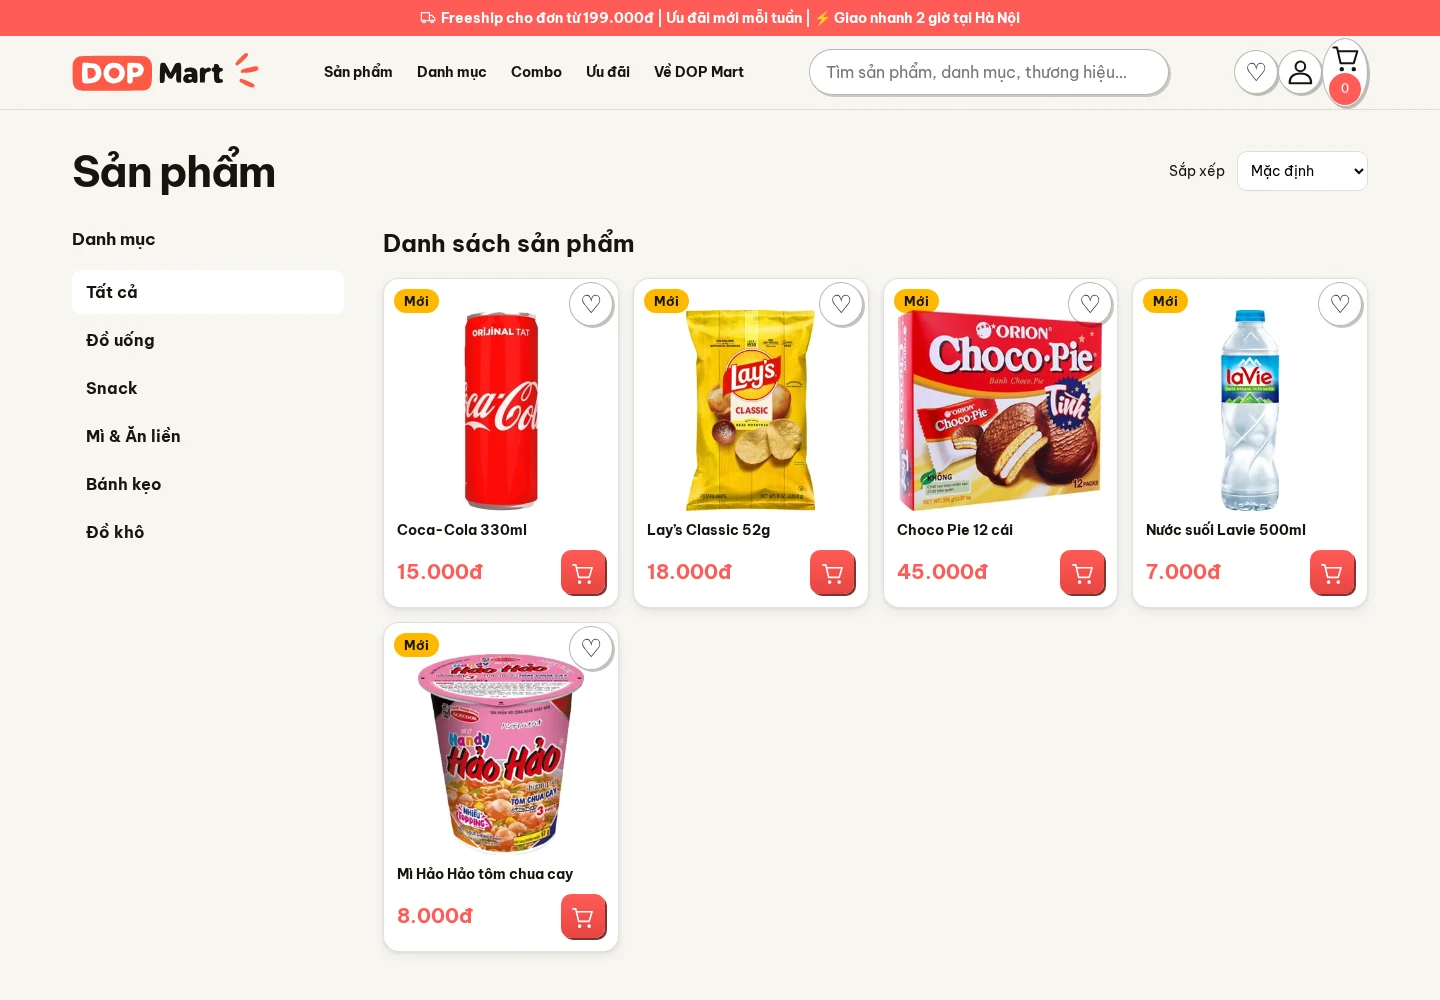
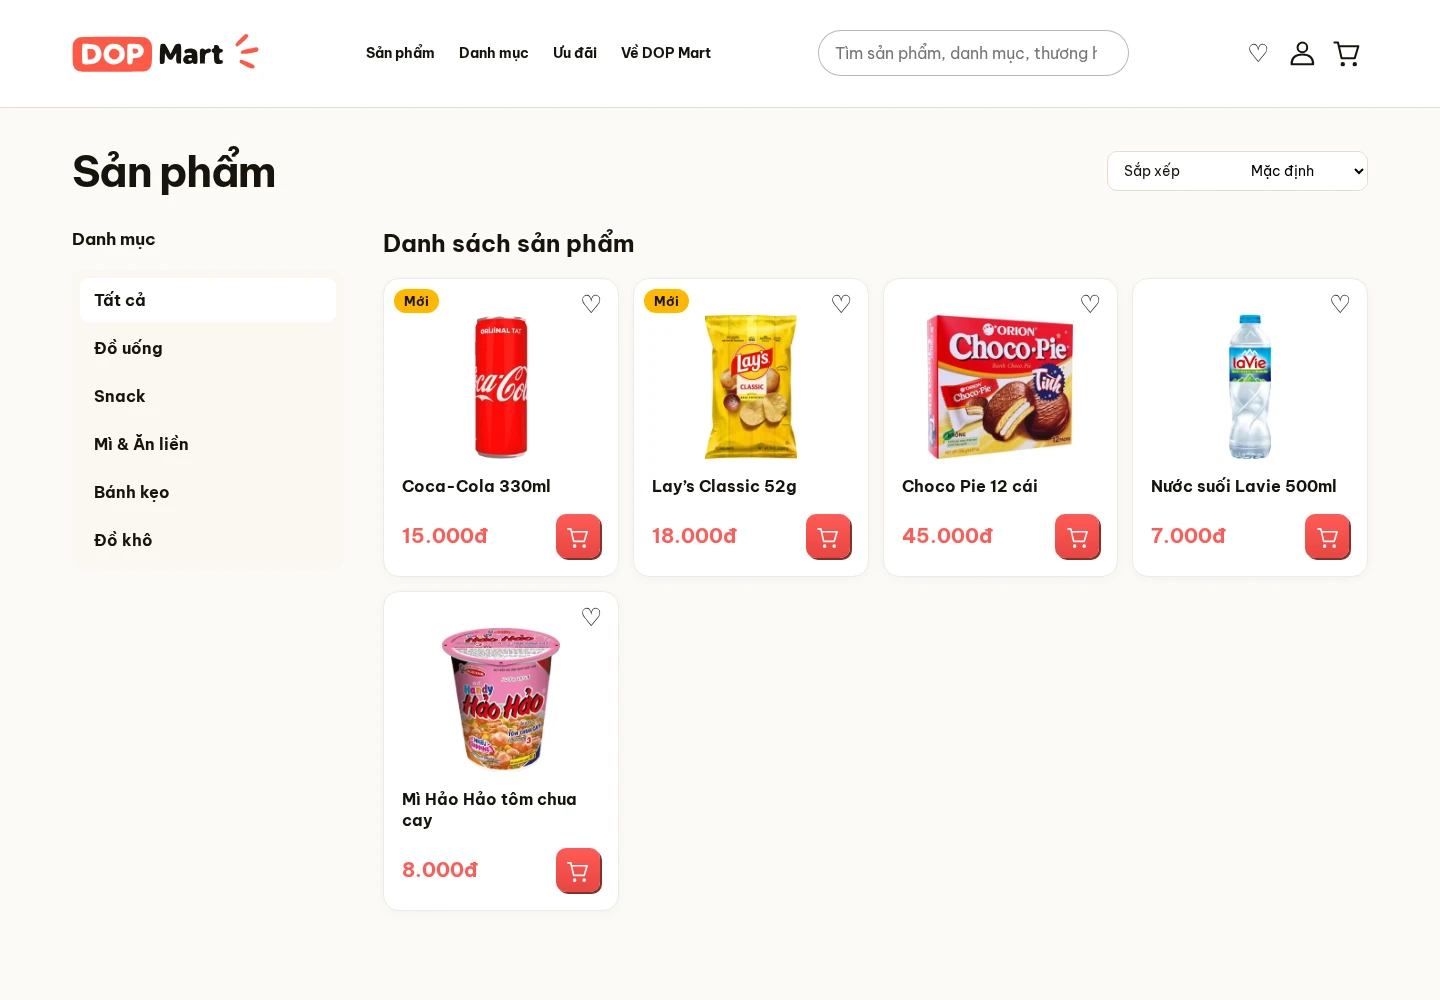
Match listing header, product scale and card styling to approved catalog reference

diff --git a/storefront-ui/homepage/products.html b/storefront-ui/homepage/products.html
@@ -13,22 +13,6 @@
   </head>
 
   <body>
-    <div class="announcement">
-      <svg
-        aria-hidden="true"
-        viewBox="0 0 24 24"
-        fill="none"
-        stroke="currentColor"
-        stroke-width="1.7"
-        stroke-linecap="round"
-        stroke-linejoin="round"
-      >
-        <path d="M2 4h12v12H2z M14 8h4l4 5v3h-8" />
-        <circle cx="6" cy="17" r="2" />
-        <circle cx="18" cy="17" r="2" />
-      </svg>
-      Freeship cho đơn từ 199.000đ | Ưu đãi mới mỗi tuần | ⚡ Giao nhanh 2 giờ tại Hà Nội
-    </div>
     <header class="header">
       <div class="wrap header-inner">
         <button class="icon menu" aria-label="Danh mục">&#9776;</button
@@ -38,7 +22,7 @@
         ></a>
         <nav class="nav">
           <a href="#products">Sản phẩm</a><a href="#categories">Danh mục</a
-          ><a href="deals.html#combos">Combo</a><a href="deals.html">Ưu đãi</a
+          ><a href="deals.html">Ưu đãi</a
           ><a href="index.html#hero">Về DOP Mart</a>
         </nav>
         <input
@@ -171,9 +155,7 @@
               data-id="choco"
               data-category="3"
               data-name="Choco Pie 12 cái"
-            >
-              <span class="badge">Mới</span
-              ><button class="icon heart" aria-label="Yêu thích Choco Pie 12 cái">♡</button
+            ><button class="icon heart" aria-label="Yêu thích Choco Pie 12 cái">♡</button
               ><img src="assets/images/choco.webp" alt="Choco Pie 12 cái" />
               <h3>Choco Pie 12 cái</h3>
               <div class="product-bottom">
@@ -200,9 +182,7 @@
               data-id="water"
               data-category="0"
               data-name="Nước suối Lavie 500ml"
-            >
-              <span class="badge">Mới</span
-              ><button class="icon heart" aria-label="Yêu thích Nước suối Lavie 500ml">♡</button
+            ><button class="icon heart" aria-label="Yêu thích Nước suối Lavie 500ml">♡</button
               ><img src="assets/images/water.webp" alt="Nước suối Lavie 500ml" />
               <h3>Nước suối Lavie 500ml</h3>
               <div class="product-bottom">
@@ -229,9 +209,7 @@
               data-id="noodle"
               data-category="2"
               data-name="Mì Hảo Hảo tôm chua cay"
-            >
-              <span class="badge">Mới</span
-              ><button class="icon heart" aria-label="Yêu thích Mì Hảo Hảo tôm chua cay">♡</button
+            ><button class="icon heart" aria-label="Yêu thích Mì Hảo Hảo tôm chua cay">♡</button
               ><img src="assets/images/noodle.webp" alt="Mì Hảo Hảo tôm chua cay" />
               <h3>Mì Hảo Hảo tôm chua cay</h3>
               <div class="product-bottom">

diff --git a/storefront-ui/homepage/css/pages/catalog.css b/storefront-ui/homepage/css/pages/catalog.css
@@ -26,3 +26,33 @@
   .catalog-grid { grid-template-columns: repeat(2,minmax(0,1fr)); gap: 10px; }
 }
 .mobile-nav button svg { width: 21px; height: 21px; fill: none; stroke: currentColor; stroke-width: 1.8; stroke-linejoin: round; stroke-linecap: round; }
+
+/* Keep the catalog frame aligned with the storefront reference. */
+body:has(.catalog) { background: #fcfaf7; }
+.header:has(+ .catalog), .catalog-grid .product { background: var(--surface); }
+.header:has(+ .catalog) .icon, .catalog-grid .heart {
+  border: 0;
+  box-shadow: none;
+  background: transparent;
+}
+.header:has(+ .catalog) #cart { position: relative; display: grid; place-items: center; }
+.header:has(+ .catalog) .cart-count {
+  position: absolute; top: 0; right: 0; min-width: 18px; min-height: 18px;
+  height: 18px; padding: 0 4px; line-height: 18px;
+}
+.header:has(+ .catalog) .is-empty { display: none; }
+.catalog-grid .product { box-shadow: 0 2px 8px #3525140b; border: 1px solid #f0eae2; }
+.catalog-grid .heart { color: var(--ink); }
+.catalog-grid .heart.active { color: var(--brand); }
+.catalog-grid .product img { height: clamp(96px, 10vw, 152px); }
+@media (min-width: 1001px) {
+  .header:has(+ .catalog) .header-inner { min-height: clamp(82px, 7.4vw, 112px); justify-content: space-between; }
+  .header:has(+ .catalog) .search { flex: 0 1 24%; box-shadow: none; }
+  .catalog { padding-top: 2.5vw; }
+  .catalog-grid .product { padding: 1.25vw; }
+  .catalog-grid .product img { margin-top: 1.3vw; }
+  .catalog-grid .product h3 { margin: 1.15vw 0; font-size: clamp(15px,1.13vw,18px); }
+  .catalog-heading label { border: 1px solid var(--border); background: var(--surface); border-radius: 10px; padding-left: 16px; gap: 4vw; }
+  .catalog-heading select { border: 0; }
+  .filters { background: #faf7f2; border-radius: 12px; padding: 8px; }
+}
